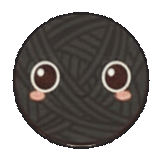
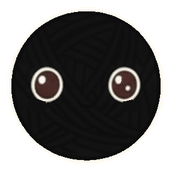
assets(clewquest): redraw stage 1-3 as fully black yarn ball (eyes only) (#70)

diff --git a/docs/design/clewquest-phase1-spec.md b/docs/design/clewquest-phase1-spec.md
@@ -27,7 +27,7 @@ Out of scope here and **must not be touched**: the plain P3 EN/ZH practice go-li
 |---|---|
 | Logo | **B1** — `public/clewquest/brand/logo-b1.*`, app icon `logo-b1-icon.*`. (B2, B3 not chosen.) |
 | Landing | **Option 1: four islands** joined by a thread, Clew hub in the centre — `public/clewquest/landing/four-islands.*`. (Option 2 "four quarters" not chosen.) |
-| Stage 1 | A **fully black** yarn ball with eyes. Current art is dark charcoal (median ≈ `#3F3936`) with grey lines and pink cheeks → placeholder until the owner's redraw. |
+| Stage 1 | A **fully black** yarn ball with eyes only (no cheeks, no mouth). Stage 2 adds legs, stage 3 adds arms. Art redrawn 2026-11-23. |
 | Thread colours | 6 colours, default **Ariadne Crimson**. (Attic Clay orange and palettes B/C not chosen.) |
 | Hairstyles | 10 styles (5 boy, 5 girl). Girls' default **Ariadne buns**. |
 | Destiny costumes / props | Approved, but **config only** so they can be added or changed later. |
@@ -199,7 +199,7 @@ Only new keys prefixed `clewquest_` (e.g. a cached character for offline display
 |---|---|---|
 | `brand/` | `logo-b1`, `logo-b1-icon` | 512 px, transparent |
 | `landing/` | `four-islands` | 864×1184 |
-| `stages/` | `stage-1` … `stage-4`, `stage-{5..8}-{boy,girl}` | cut from the evo8 sheet, transparent, old threshold labels removed. 6–8 are placeholders (unreachable). |
+| `stages/` | `stage-1` … `stage-4`, `stage-{5..8}-{boy,girl}` | 1–3: fully black redraw (eyes only); 4–8 cut from the evo8 sheet, transparent, old threshold labels removed. 6–8 are placeholders (unreachable). |
 | `characters/` | `stage5-{boy,girl}-{hairKey}` | full-body stage-5 look per hair (crimson) — builder preview |
 | `hair/` | `thumb-{hairKey}`, `hair-sheet-{boys,girls}` | head thumbnails for tiles; reference sheets |
 | `colours/` | `thread-colours-swatch` | reference sheet of the 6 colours (UI swatches should use the hex values) |
@@ -207,7 +207,6 @@ Only new keys prefixed `clewquest_` (e.g. a cached character for offline display
 Colour variants: Phase 1 art is crimson only. For other colours either (a) pre-render recoloured variants offline into `public/clewquest/characters/` (keyed `stage5-{gender}-{hair}-{colour}`) with a luminance-preserving recolour that masks skin, eyes and sandals, or (b) show crimson art plus the chosen colour on the thread ball/UI until variants exist. The asset resolver must fall back gracefully to crimson.
 
 Known art follow-ups (owner will redraw in Gemini):
-- Stage 1 (and the matching bodies in stages 2–3) must be **fully black**; current art is charcoal with grey lines and pink cheeks.
 - Cut-outs have slight edge fringes; stage 8 wings are clipped by the original panel frame.
 - Premium stage 7–8 art: not done; slot only (`art_tier = 'premium'`).
 

diff --git a/public/clewquest/README.md b/public/clewquest/README.md
@@ -1,4 +1,4 @@
 # ClewQuest assets (Phase 1)
 
 Placeholder art for ClewQuest Phase 1. See `docs/design/clewquest-phase1-spec.md` §4 and `manifest.json`.
-WebP is primary, PNG is the fallback. Stage 1-3 art will be redrawn fully black; stage 6-8 are not reachable in Phase 1.
+WebP is primary, PNG is the fallback. Stage 1-3 are fully black yarn balls with eyes only (redrawn 2026-11-23); stage 6-8 are not reachable in Phase 1.
